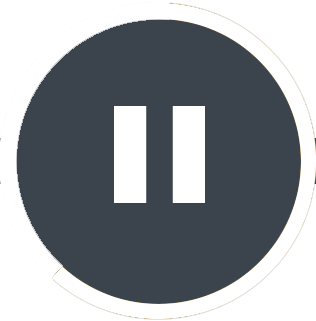
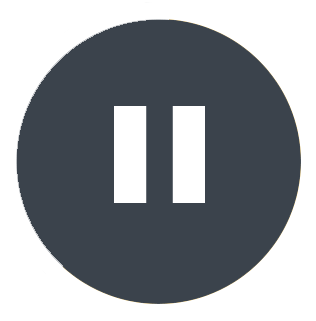
Added mic permission checks, pauses recording when placed in background. Cleaned up graphics.

diff --git a/src/ios/CDVAudioRecorder.m b/src/ios/CDVAudioRecorder.m
@@ -23,6 +23,8 @@
 #endif
 @end
 
+#ifndef DEV_PLUGING
+
 /************************************************************************************************************
  *      CDVAudioRecorder - Initialisation point of the plugin, creates a Navigation Controller and Pushes
  *      the main audio recorder view controller on to it.
@@ -113,6 +115,9 @@
 }
 @end
 
+#endif
+
+#pragma mark - ACTUAL VIEW CONTROLLER INSIDE PLUG IN - INTERFACE
 /************************************************************************************************************
  *      AudioRecorder - ViewController for the Audio Recorder
  ************************************************************************************************************/
@@ -141,6 +146,7 @@
 
     float _averagePower;
     float _peakPower;
+    BOOL _micPermission;
 }
 
 @property (nonatomic, retain) NSString *recorderFilePath;
@@ -162,6 +168,7 @@
 @property float averagePower;
 @property float peakPower;
 @property float MaxRecSize;
+@property BOOL micPermission;
 
 - (void)startRecording;
 - (void)stopRecording;
@@ -226,10 +233,96 @@
 @synthesize errorCode = _errorCode;
 @synthesize callbackId = _callbackId;
 @synthesize duration = _duration;
-@synthesize audioRecorderCommand = _audioRecorderCommand;
 @synthesize isTimed = _isTimed;
-@synthesize pluginResult = _pluginResult;
 @synthesize previousStatusBarStyle = _previousStatusBarStyle;
+@synthesize micPermission = _micPermission;
+
+#ifndef DEV_PLUGING
+@synthesize audioRecorderCommand = _audioRecorderCommand;
+@synthesize pluginResult = _pluginResult;
+#endif
+
+/* ~~~~~~~~~~ PLUGIN ~~~~~~~~~~~ */
+#pragma mark - View entry point for our new view.
+#ifndef DEV_PLUGING
+- (id)initWithCommand:(CDVAudioRecorder *)theCommand duration:(NSNumber *)theDuration callbackId:(NSString *)theCallbackId
+{
+    NSLog(@"CDVRecorderViewController - initWithCommand");
+    if ((self = [super init])) {
+        self.audioRecorderCommand = theCommand;
+        self.duration = theDuration;
+        self.callbackId = theCallbackId;
+        self.errorCode = AUDIO_NO_MEDIA_FILES;
+        self.isTimed = self.duration != nil;
+        self.previousStatusBarStyle = [UIApplication sharedApplication].statusBarStyle;
+        return self;
+    }
+    return nil;
+}
+#endif
+
+#pragma mark - Finish up and exit Plugin
+-(void)finishPlugin {
+#ifndef DEV_PLUGING
+    NSDictionary* fileDict = [self.audioRecorderCommand getMediaDictionaryFromPath:self.recorderFilePath ofType:@"audio/wav"];
+    if(fileDict)
+    {
+        NSArray* fileArray = [NSArray arrayWithObject:fileDict];
+        
+        self.pluginResult = [CDVPluginResult resultWithStatus:CDVCommandStatus_OK messageAsArray:fileArray];
+    }
+    // called when done button pressed or when error condition to do cleanup and remove view
+    [[self.audioRecorderCommand.viewController.presentedViewController presentingViewController] dismissViewControllerAnimated:YES completion:nil];
+    if (!self.pluginResult) {
+        self.pluginResult = [CDVPluginResult resultWithStatus:CDVCommandStatus_ERROR messageToErrorObject:(int)self.errorCode];
+    }
+    
+    [self.audioRecorderCommand setInUse:NO];
+    UIAccessibilityPostNotification(UIAccessibilityScreenChangedNotification, nil);
+    // return result
+    [self.audioRecorderCommand.commandDelegate sendPluginResult:self.pluginResult callbackId:self.callbackId];
+    
+    if (IsAtLeastiOSVersion(@"7.0")) {
+        [[UIApplication sharedApplication] setStatusBarStyle:self.previousStatusBarStyle];
+    }
+#endif
+}
+
+/* ~~~~~~~~~~ VIEW ~~~~~~~~~~~ */
+#pragma mark - ~~~~~~~~~~~~~~~~~~~~~~~~~~~~~~~~~~
+#pragma mark - Check permission to use Microphone
+-(void)checkPermission
+{
+    [[AVAudioSession sharedInstance] requestRecordPermission:^(BOOL granted) {
+        if (granted) {
+            NSLog(@"Permission granted");
+            self.micPermission = YES;
+        }
+        else {
+            NSLog(@"Permission denied");
+            self.micPermission = NO;
+        }
+    }];
+}
+
+#pragma mark - 
+-(void) adviseUserPermission
+{
+    UIAlertAction *resetAction = [UIAlertAction
+                                  actionWithTitle:NSLocalizedString(@"OKAY", @"OKAY action")
+                                  style:UIAlertActionStyleDestructive
+                                  handler:^(UIAlertAction *action)
+                                  {
+                                      NSLog(@"OKAY action");
+                                  }];
+    
+    UIAlertController *alertController = [UIAlertController
+                                          alertControllerWithTitle:@"Mic Permission Error"
+                                          message:@"This app does not have permission to use your mic, please go to the settings app and allow permission !!"
+                                          preferredStyle:UIAlertControllerStyleAlert];
+    [alertController addAction:resetAction];
+    [self presentViewController:alertController animated:YES completion:nil];
+}
 
 #pragma mark -
 - (NSString*)resolveImageResource:(NSString*)resource
@@ -244,24 +337,7 @@
             return [NSString stringWithFormat:@"%@.png", resource];
         }
     }
-
     return resource;
-}
-
-#pragma mark -
-- (id)initWithCommand:(CDVAudioRecorder *)theCommand duration:(NSNumber *)theDuration callbackId:(NSString *)theCallbackId
-{
-    NSLog(@"CDVRecorderViewController - initWithCommand");
-    if ((self = [super init])) {
-        self.audioRecorderCommand = theCommand;
-        self.duration = theDuration;
-        self.callbackId = theCallbackId;
-        self.errorCode = AUDIO_NO_MEDIA_FILES;
-        self.isTimed = self.duration != nil;
-        self.previousStatusBarStyle = [UIApplication sharedApplication].statusBarStyle;
-        return self;
-    }
-    return nil;
 }
 
 #pragma mark -
@@ -363,7 +439,7 @@
 -(void)drawPie
 {
     CGFloat radius = MIN(self.circle.frame.size.width,self.circle.frame.size.height)/2;
-    CGFloat inset  = 15;
+    CGFloat inset  = 20;
     CAShapeLayer *ring = [CAShapeLayer layer];
     ring.path = [UIBezierPath bezierPathWithRoundedRect:CGRectInset(self.circle.bounds, inset, inset)
                                            cornerRadius:radius-inset].CGPath;
@@ -402,7 +478,7 @@
 {
     if(!self.circles)
     {
-        CGFloat radius = 60.0;
+        CGFloat radius = 100.0;
         NSNumber *radiusObject = [[NSNumber alloc] initWithFloat:radius];
         self.circles = [[NSMutableArray alloc] initWithCapacity:10];
         [self.circles addObject:radiusObject];
@@ -412,9 +488,9 @@
             NSNumber *current = [self.circles objectAtIndex:index];
             CGFloat value = [current floatValue];
             value += 3.0;
-            if(value > 130.0)
+            if(value > 250.0)
             {
-                value = 60.0;
+                value = 100.0;
                 self.fadeColor = 1.0;
             }
             [self.circles setObject:[NSNumber numberWithFloat:value] atIndexedSubscript:index];
@@ -423,6 +499,18 @@
     }
     if(self.currentState == STATE_RECORDING)
         [self performSelector:@selector(ripples) withObject:nil afterDelay:0.05];
+}
+
+-(void)backgroundNotification:(NSNotification *)notification
+{
+    NSLog(@"backgroundNotification");
+    if(self.currentState == STATE_RECORDING)
+    {
+        [self.circles removeAllObjects];
+        self.circles = nil;
+        [self performButtonAction];
+        [self changeButtonState];
+    }
 }
 
 - (BOOL)textFieldShouldReturn:(UITextField *)textField
@@ -463,6 +551,10 @@
 {
     [super viewWillAppear:animated];
     NSLog(@"viewWillAppear");
+    
+    [[NSNotificationCenter defaultCenter] addObserver:self selector:@selector(backgroundNotification:)
+                                                 name:UIApplicationDidEnterBackgroundNotification object:nil];
+    
     self.isRecording = NO;
     self.isPaused = NO;
     self.isSavingRecording = NO;
@@ -474,7 +566,7 @@
     //Get the centre setttings and display the maximum audio recording size
     NSString *maxSizeText = [NSString stringWithFormat:@"%d MB", 30000];
     [self.maxFileSizeLabel setText:maxSizeText];
-    self.MaxRecSize = 30000;
+    self.MaxRecSize = 30.0;
     self.value = 0;
     self.segment = 0;
     self.currentState = STATE_NOT_SET;
@@ -485,6 +577,7 @@
     btnDone.style=UIBarButtonSystemItemDone;
     self.saveCancelButton.enabled = NO;
     [self changeButtonState];
+    [self checkPermission];
 }
 
 -(void)viewDidAppear:(BOOL)animated
@@ -497,12 +590,16 @@
 {
     [super viewWillDisappear:animated];
     NSLog(@"viewWillDisappear");
+    [[NSNotificationCenter defaultCenter] removeObserver:self name:UIApplicationDidEnterBackgroundNotification object:nil];
 }
 
 #pragma mark - Buttons
 - (IBAction)recorderButtonPressed:(id)sender
 {
-    [self performButtonAction];
+    if(self.micPermission)
+        [self performButtonAction];
+    else
+        [self adviseUserPermission];
 }
 
 - (IBAction)backButtonPressed:(id)sender {
@@ -575,9 +672,9 @@
         [self stopRecording];
         [self.viewAmplitude setHidden:YES];
     }
-    self.value = 1.0 * (MBUsed / 30.0f);
+    self.value = 1.0 * (MBUsed / self.MaxRecSize);
     [self drawPie];
-    if(MBUsed >= self.MaxRecSize && self.recorder && self.recorder.recording)
+    if(self.value >= 1.0f && self.recorder && self.recorder.recording)
         [self stopRecording];
 }
 
@@ -926,31 +1023,6 @@
 
         self.outputStream = [NSOutputStream outputStreamToFileAtPath:[RecordingPath path]
                                                               append:NO];
-    }
-}
-
-#pragma mark - Finish up and exit Plugin
--(void)finishPlugin {
-    NSDictionary* fileDict = [self.audioRecorderCommand getMediaDictionaryFromPath:self.recorderFilePath ofType:@"audio/wav"];
-    if(fileDict)
-    {
-        NSArray* fileArray = [NSArray arrayWithObject:fileDict];
-
-        self.pluginResult = [CDVPluginResult resultWithStatus:CDVCommandStatus_OK messageAsArray:fileArray];
-    }
-    // called when done button pressed or when error condition to do cleanup and remove view
-    [[self.audioRecorderCommand.viewController.presentedViewController presentingViewController] dismissViewControllerAnimated:YES completion:nil];
-    if (!self.pluginResult) {
-        self.pluginResult = [CDVPluginResult resultWithStatus:CDVCommandStatus_ERROR messageToErrorObject:(int)self.errorCode];
-    }
-
-    [self.audioRecorderCommand setInUse:NO];
-    UIAccessibilityPostNotification(UIAccessibilityScreenChangedNotification, nil);
-    // return result
-    [self.audioRecorderCommand.commandDelegate sendPluginResult:self.pluginResult callbackId:self.callbackId];
-
-    if (IsAtLeastiOSVersion(@"7.0")) {
-        [[UIApplication sharedApplication] setStatusBarStyle:self.previousStatusBarStyle];
     }
 }
 

diff --git a/src/ios/CDVAudioRecorder.h b/src/ios/CDVAudioRecorder.h
@@ -1,8 +1,10 @@
 #import <UIKit/UIKit.h>
 #import <AVFoundation/AVFoundation.h>
 #import <QuartzCore/QuartzCore.h>
+#ifndef DEV_PLUGING
 #import <Cordova/CDVPlugin.h>
 #import "CDVFile.h"
+#endif
 
 enum CDVAUDIOError {
     AUDIO_INTERNAL_ERR = 0,
@@ -34,14 +36,21 @@ typedef enum {
  *      CDVAudioRecorder - Initialisation point of the plugin, creates a Navigation Controller and Pushes
  *      the main audio recorder view controller on to it.
  ************************************************************************************************************/
+#ifndef DEV_PLUGING
 @interface CDVAudioRecorder : CDVPlugin <UINavigationControllerDelegate>
 {
     BOOL _inUse;
 }
 @property BOOL inUse;
+
 - (void)audioRecorder:(CDVInvokedUrlCommand*)command;
 - (NSDictionary*)getMediaDictionaryFromPath:(NSString*)fullPath ofType:(NSString*)type;
 @end
+#endif
+
+/* ~~~~~~~~~~~~~~~~~~~~~~~~~~~~~~~~~~~~~~~~~~~~~~~~~~~~~~~~~~~~~~~~~~~~~~~~~~~~~~~~~~~~~~~~~~~~~~~~~~~~~~~~~~*/
+/* ~~~~~~~~~~~~~~~~~~~~~~~~~~~~~~~~~~~~~~~~~~~~~~~~~~~~~~~~~~~~~~~~~~~~~~~~~~~~~~~~~~~~~~~~~~~~~~~~~~~~~~~~~~*/
+/* ~~~~~~~~~~~~~~~~~~~~~~~~~~~~~~~~~~~~~~~~~~~~~~~~~~~~~~~~~~~~~~~~~~~~~~~~~~~~~~~~~~~~~~~~~~~~~~~~~~~~~~~~~~*/
 
 /************************************************************************************************************
  *      AudioRecorder - ViewController for the Audio Recorder
@@ -77,9 +86,11 @@ typedef enum {
     CDVAUDIOError _errorCode;
     NSString *_callbackId;
     NSNumber *_duration;
+BOOL _isTimed;
+#ifndef DEV_PLUGING
     CDVAudioRecorder *_audioRecorderCommand;
-    BOOL _isTimed;
     CDVPluginResult *_pluginResult;
+#endif
     UIStatusBarStyle _previousStatusBarStyle;
 }
 
@@ -113,14 +124,19 @@ typedef enum {
 @property (nonatomic) CDVAUDIOError errorCode;
 @property (nonatomic, copy) NSString *callbackId;
 @property (nonatomic, copy) NSNumber *duration;
-@property (nonatomic, strong) CDVAudioRecorder *audioRecorderCommand;
 @property BOOL isTimed;
-@property (nonatomic, strong) CDVPluginResult *pluginResult;
 @property UIStatusBarStyle previousStatusBarStyle;
+
+#ifndef DEV_PLUGING
+@property (nonatomic, strong) CDVAudioRecorder *audioRecorderCommand;
+@property (nonatomic, strong) CDVPluginResult *pluginResult;
+#endif
 
 - (IBAction)recorderButtonPressed:(id)sender;
 - (IBAction)backButtonPressed:(id)sender;
 - (IBAction)saveButtonPressed:(id)sender;
 
+#ifndef DEV_PLUGING
 - (id)initWithCommand:(CDVPlugin *)theCommand duration:(NSNumber*)theDuration callbackId:(NSString*)theCallbackId;
+#endif
 @end
